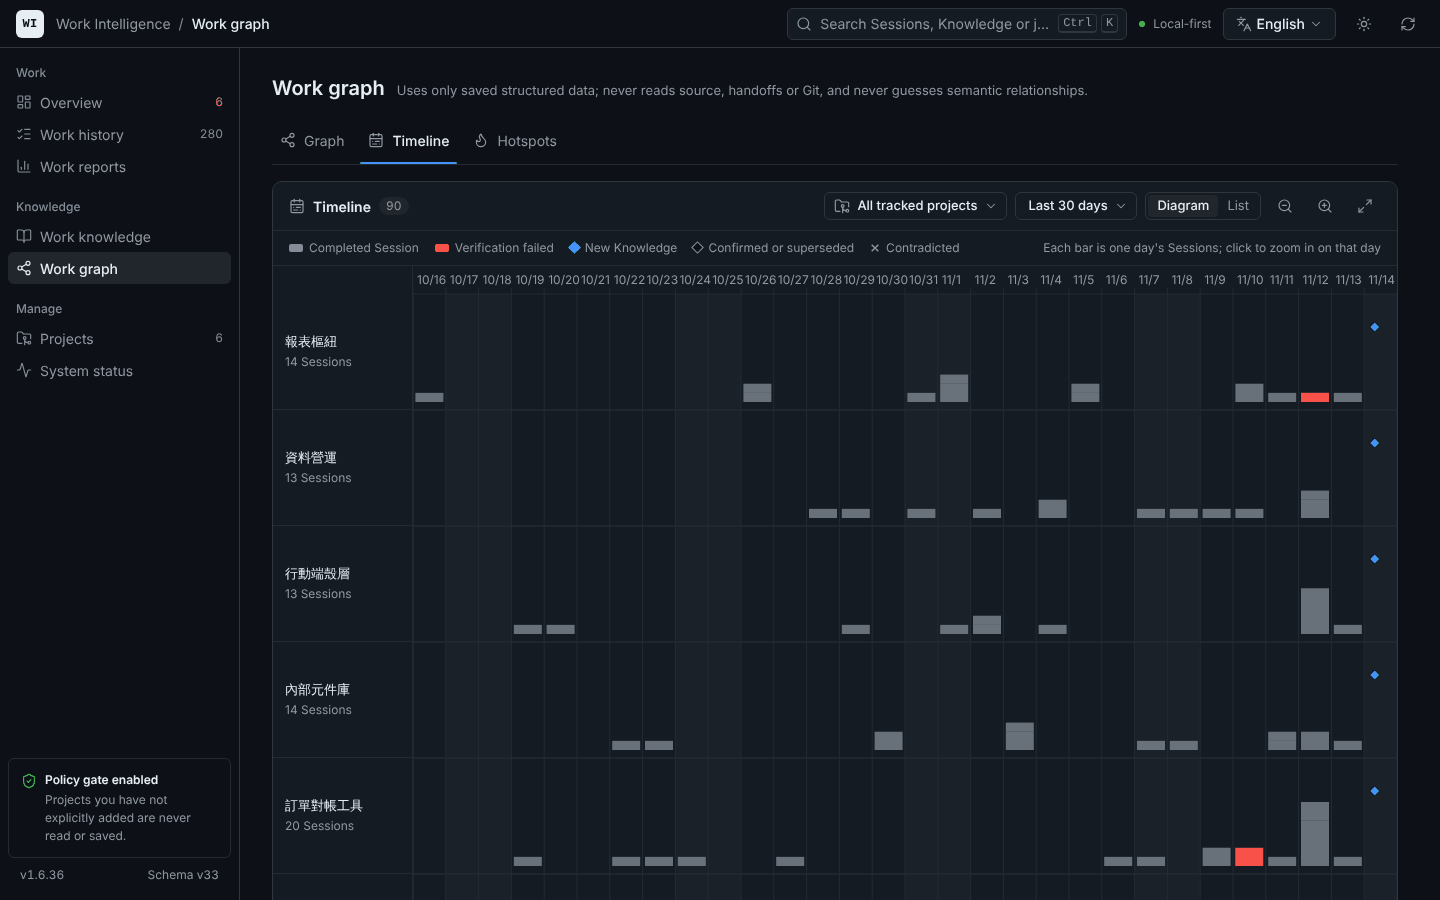
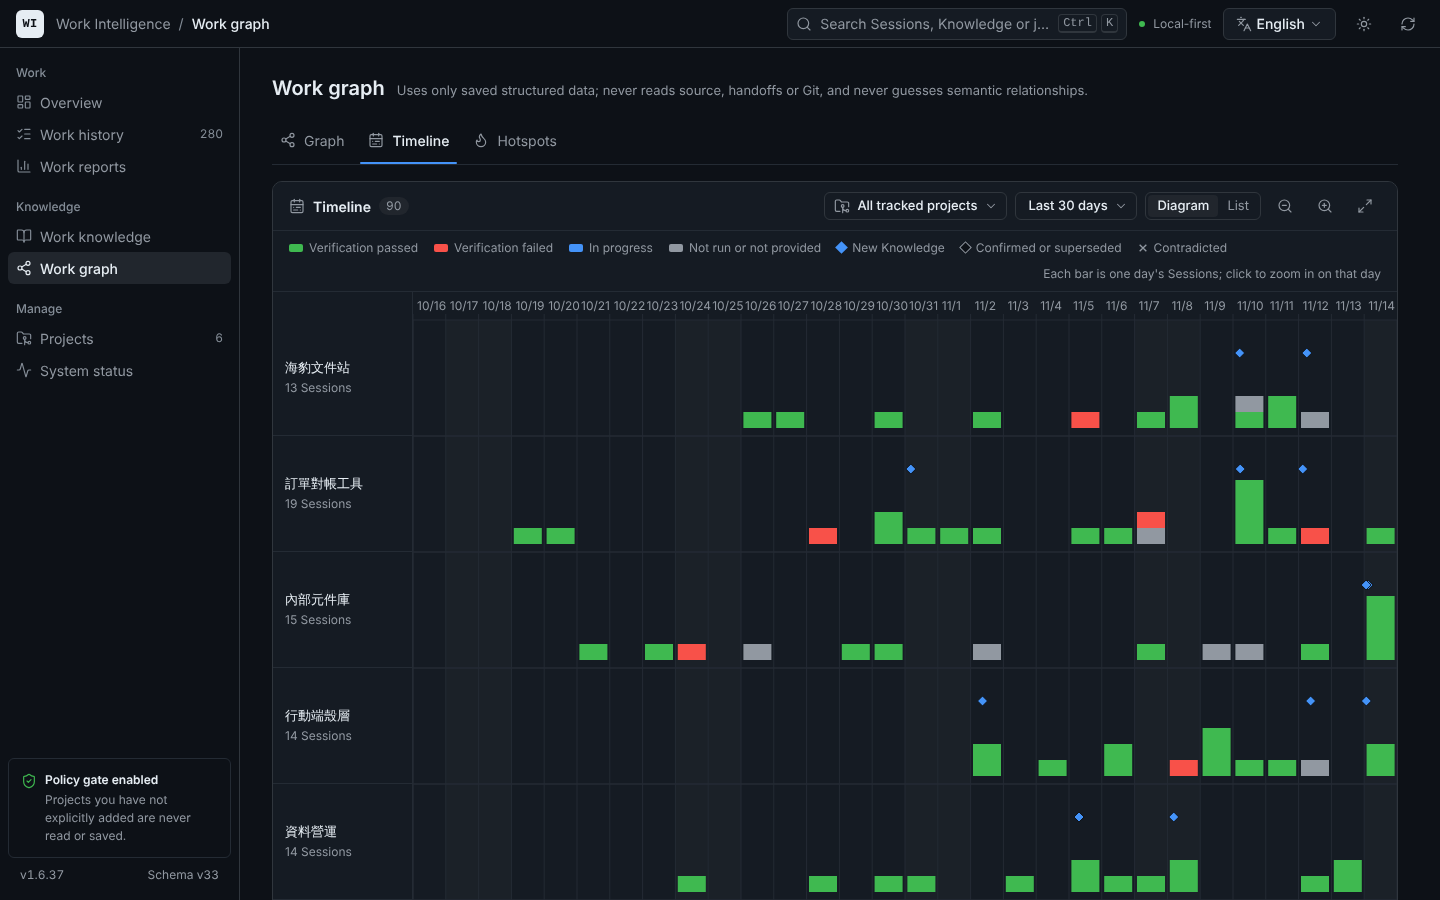
fix(web): restore verification colors on the Work graph timeline (1.6.37)
1.6.36 drew every timeline bar in gray and kept red only for failed
verification, so passed and not-run work looked the same. Bars, day
columns and the legend take the color of the verification result again.
Weekend shading, the fixed project column and Knowledge event shapes stay.

Claude-Session: https://claude.ai/code/session_01VUVzVEk2ADJ2PvDM2JpS6j

diff --git a/apps/web/src/components/domain/GraphTimelineBox.vue b/apps/web/src/components/domain/GraphTimelineBox.vue
@@ -542,8 +542,10 @@ onBeforeUnmount(() => {
 
     <template v-else-if="timeline">
       <p v-if="view === 'chart'" class="timeline__legend" aria-hidden="true">
-        <span><i class="timeline__swatch timeline__swatch--done" />{{ t("graph.legendCompletedSession") }}</span>
+        <span><i class="timeline__swatch timeline__swatch--passed" />{{ t("graph.verificationPassed") }}</span>
         <span><i class="timeline__swatch timeline__swatch--failed" />{{ t("graph.verificationFailed") }}</span>
+        <span><i class="timeline__swatch timeline__swatch--in_progress" />{{ t("common.inProgress") }}</span>
+        <span><i class="timeline__swatch timeline__swatch--other" />{{ t("graph.notRunOrNotProvided") }}</span>
         <span><i class="timeline__swatch timeline__swatch--created" />{{ t("graph.legendNewKnowledge") }}</span>
         <span><i class="timeline__swatch timeline__swatch--open" />{{ t("graph.legendConfirmedSuperseded") }}</span>
         <span
@@ -741,12 +743,20 @@ onBeforeUnmount(() => {
   border-radius: var(--radius-xs);
 }
 
-.timeline__swatch--done {
-  background: var(--fg-subtle);
+.timeline__swatch--passed {
+  background: var(--success);
 }
 
 .timeline__swatch--failed {
   background: var(--danger);
+}
+
+.timeline__swatch--in_progress {
+  background: var(--accent);
+}
+
+.timeline__swatch--other {
+  background: var(--fg-muted);
 }
 
 .timeline__swatch--created {
@@ -781,14 +791,22 @@ onBeforeUnmount(() => {
   margin-left: auto;
 }
 
-/* Bars are neutral: only a failed verification is colored. */
+/* A bar takes the color of its verification result; not run and not supplied stay muted. */
 .timeline__bar {
-  color: var(--fg-subtle);
+  color: var(--fg-muted);
   cursor: pointer;
+}
+
+.timeline__bar--passed {
+  color: var(--success);
 }
 
 .timeline__bar--failed {
   color: var(--danger);
+}
+
+.timeline__bar--in_progress {
+  color: var(--accent);
 }
 
 .timeline__bar rect,
@@ -855,15 +873,20 @@ onBeforeUnmount(() => {
   transition: opacity var(--duration-instant) ease-out;
 }
 
-.timeline__segment--passed,
-.timeline__segment--in_progress,
-.timeline__segment--other {
-  fill: var(--fg-subtle);
-  fill-opacity: 0.75;
+.timeline__segment--passed {
+  fill: var(--success);
 }
 
 .timeline__segment--failed {
   fill: var(--danger);
+}
+
+.timeline__segment--in_progress {
+  fill: var(--accent);
+}
+
+.timeline__segment--other {
+  fill: var(--fg-muted);
 }
 
 .timeline__axis text {

diff --git a/docs/status.md b/docs/status.md
@@ -6,6 +6,10 @@
 
 - 最後更新：2026-11-14
 
+## 1.6.37（已完成）
+
+修正工作圖譜時間軸的顏色：1.6.36 把長條改成灰色，使驗證通過與未執行無法分辨；本版恢復依驗證結果上色（通過綠、失敗紅、進行中藍、未執行或未提供灰），圖例恢復四種結果。週末底色、固定專案名稱欄與 Knowledge 事件形狀保留。沒有 schema 變更（33），沒有 storage、server 或 MCP 行為變更。見[更新說明](releases/1.6.37.md)。
+
 ## 1.6.36（已完成）
 
 Web UI 外觀改版：沿用現有藍色並精修 tokens，拿掉英文大寫小標，重新排版總覽（本週的循環與八週走勢）、工作歷程（時間軸與整日小結）、工作知識（信任條與類型分布）、工作圖譜時間軸與工作報告；專案、系統狀態與 Session 面板套用同一套外觀。共用側邊面板標題列、數字卡格線、雙欄版型與連結按鈕，並修正未定義的 `--fg-attention` 與低於 12px 的圖譜字級。版面行為不變。沒有 schema 變更（33），沒有 storage、server 或 MCP 行為變更，也不需要 migration。驗證：format、lint、typecheck、build、全部單元測試與 coverage、三種瀏覽器的 E2E 與 start smoke 皆通過；版面行為對照三種視窗沒有行為退步；README 截圖已用虛構示意資料重拍。未驗證：對比只經過 axe 檢查；英文版截圖中有兩句 server 端產生的中文。沒做的項目包括沒有資料的數字（引用過去知識的次數、未回報次數）與屬於行為變更的項目。見[更新說明](releases/1.6.36.md)。

diff --git a/docs/releases/1.6.37.md b/docs/releases/1.6.37.md
@@ -1,0 +1,20 @@
+# Work Intelligence 1.6.37 更新說明
+
+日期：2026-11-14。應用程式與 plugin 版本為 1.6.37；資料庫 schema 維持 33，沒有 schema 變更，也不需要 migration。
+
+## 這一版修正什麼
+
+1.6.36 把工作圖譜時間軸的長條改成灰色，只有驗證失敗保留紅色。這讓「驗證通過」和「未執行」看起來一樣，也和產品其他地方「通過用綠色」的規則不一致。這一版改回來。
+
+- Session 長條與每日長條依驗證結果上色：驗證通過是綠色，驗證失敗是紅色，進行中是藍色，未執行或未提供是灰色。
+- 圖例恢復列出這四種結果。
+- 1.6.36 的其他調整保留：週末底色、固定在左側的專案名稱欄，以及 Knowledge 事件用形狀區分（新增是實心菱形，被確認或取代是空心菱形，被推翻是叉號）。
+
+## 不變的部分
+
+沒有資料、API 或 MCP 行為變更。版面與捲動行為不變。
+
+## 升級
+
+1. 取得 1.6.37 原始碼後重新建置並重新啟動。
+2. 不需要 migration，也不需要重新匯入資料。

diff --git a/CHANGELOG.md b/CHANGELOG.md
@@ -4,6 +4,16 @@ All notable changes to Work Intelligence are documented here. The project follow
 
 ## [Unreleased]
 
+## [1.6.37] - 2026-11-14
+
+[繁體中文更新說明](docs/releases/1.6.37.md).
+
+This release restores the verification colors on the Work graph timeline, which 1.6.36 had turned gray. It changes no data, no API and no MCP behaviour; the schema stays at 33.
+
+### Fixed
+
+- Work graph timeline: Session bars and day columns again take the color of their verification result (passed is green, failed is red, in progress is blue, not run or not provided is muted), and the legend lists the four results again. The 1.6.36 layout stays: weekend shading, the fixed project name column and the Knowledge event shapes.
+
 ## [1.6.36] - 2026-11-14
 
 [繁體中文更新說明](docs/releases/1.6.36.md).

diff --git a/docs/releases/1.6.36.md b/docs/releases/1.6.36.md
@@ -35,7 +35,7 @@
 
 ### 工作圖譜（時間軸）
 
-- 每天一根中性色長條，失敗的工作以紅色標示。
+- 每天一根中性色長條，失敗的工作以紅色標示。（1.6.37 已改回依驗證結果上色。）
 - 新增的 Knowledge 以強調色菱形標示；確認與取代為空心菱形；推翻為叉號。
 - 日寬足夠時，週末以底色標示；專案名稱固定在左欄。
 
